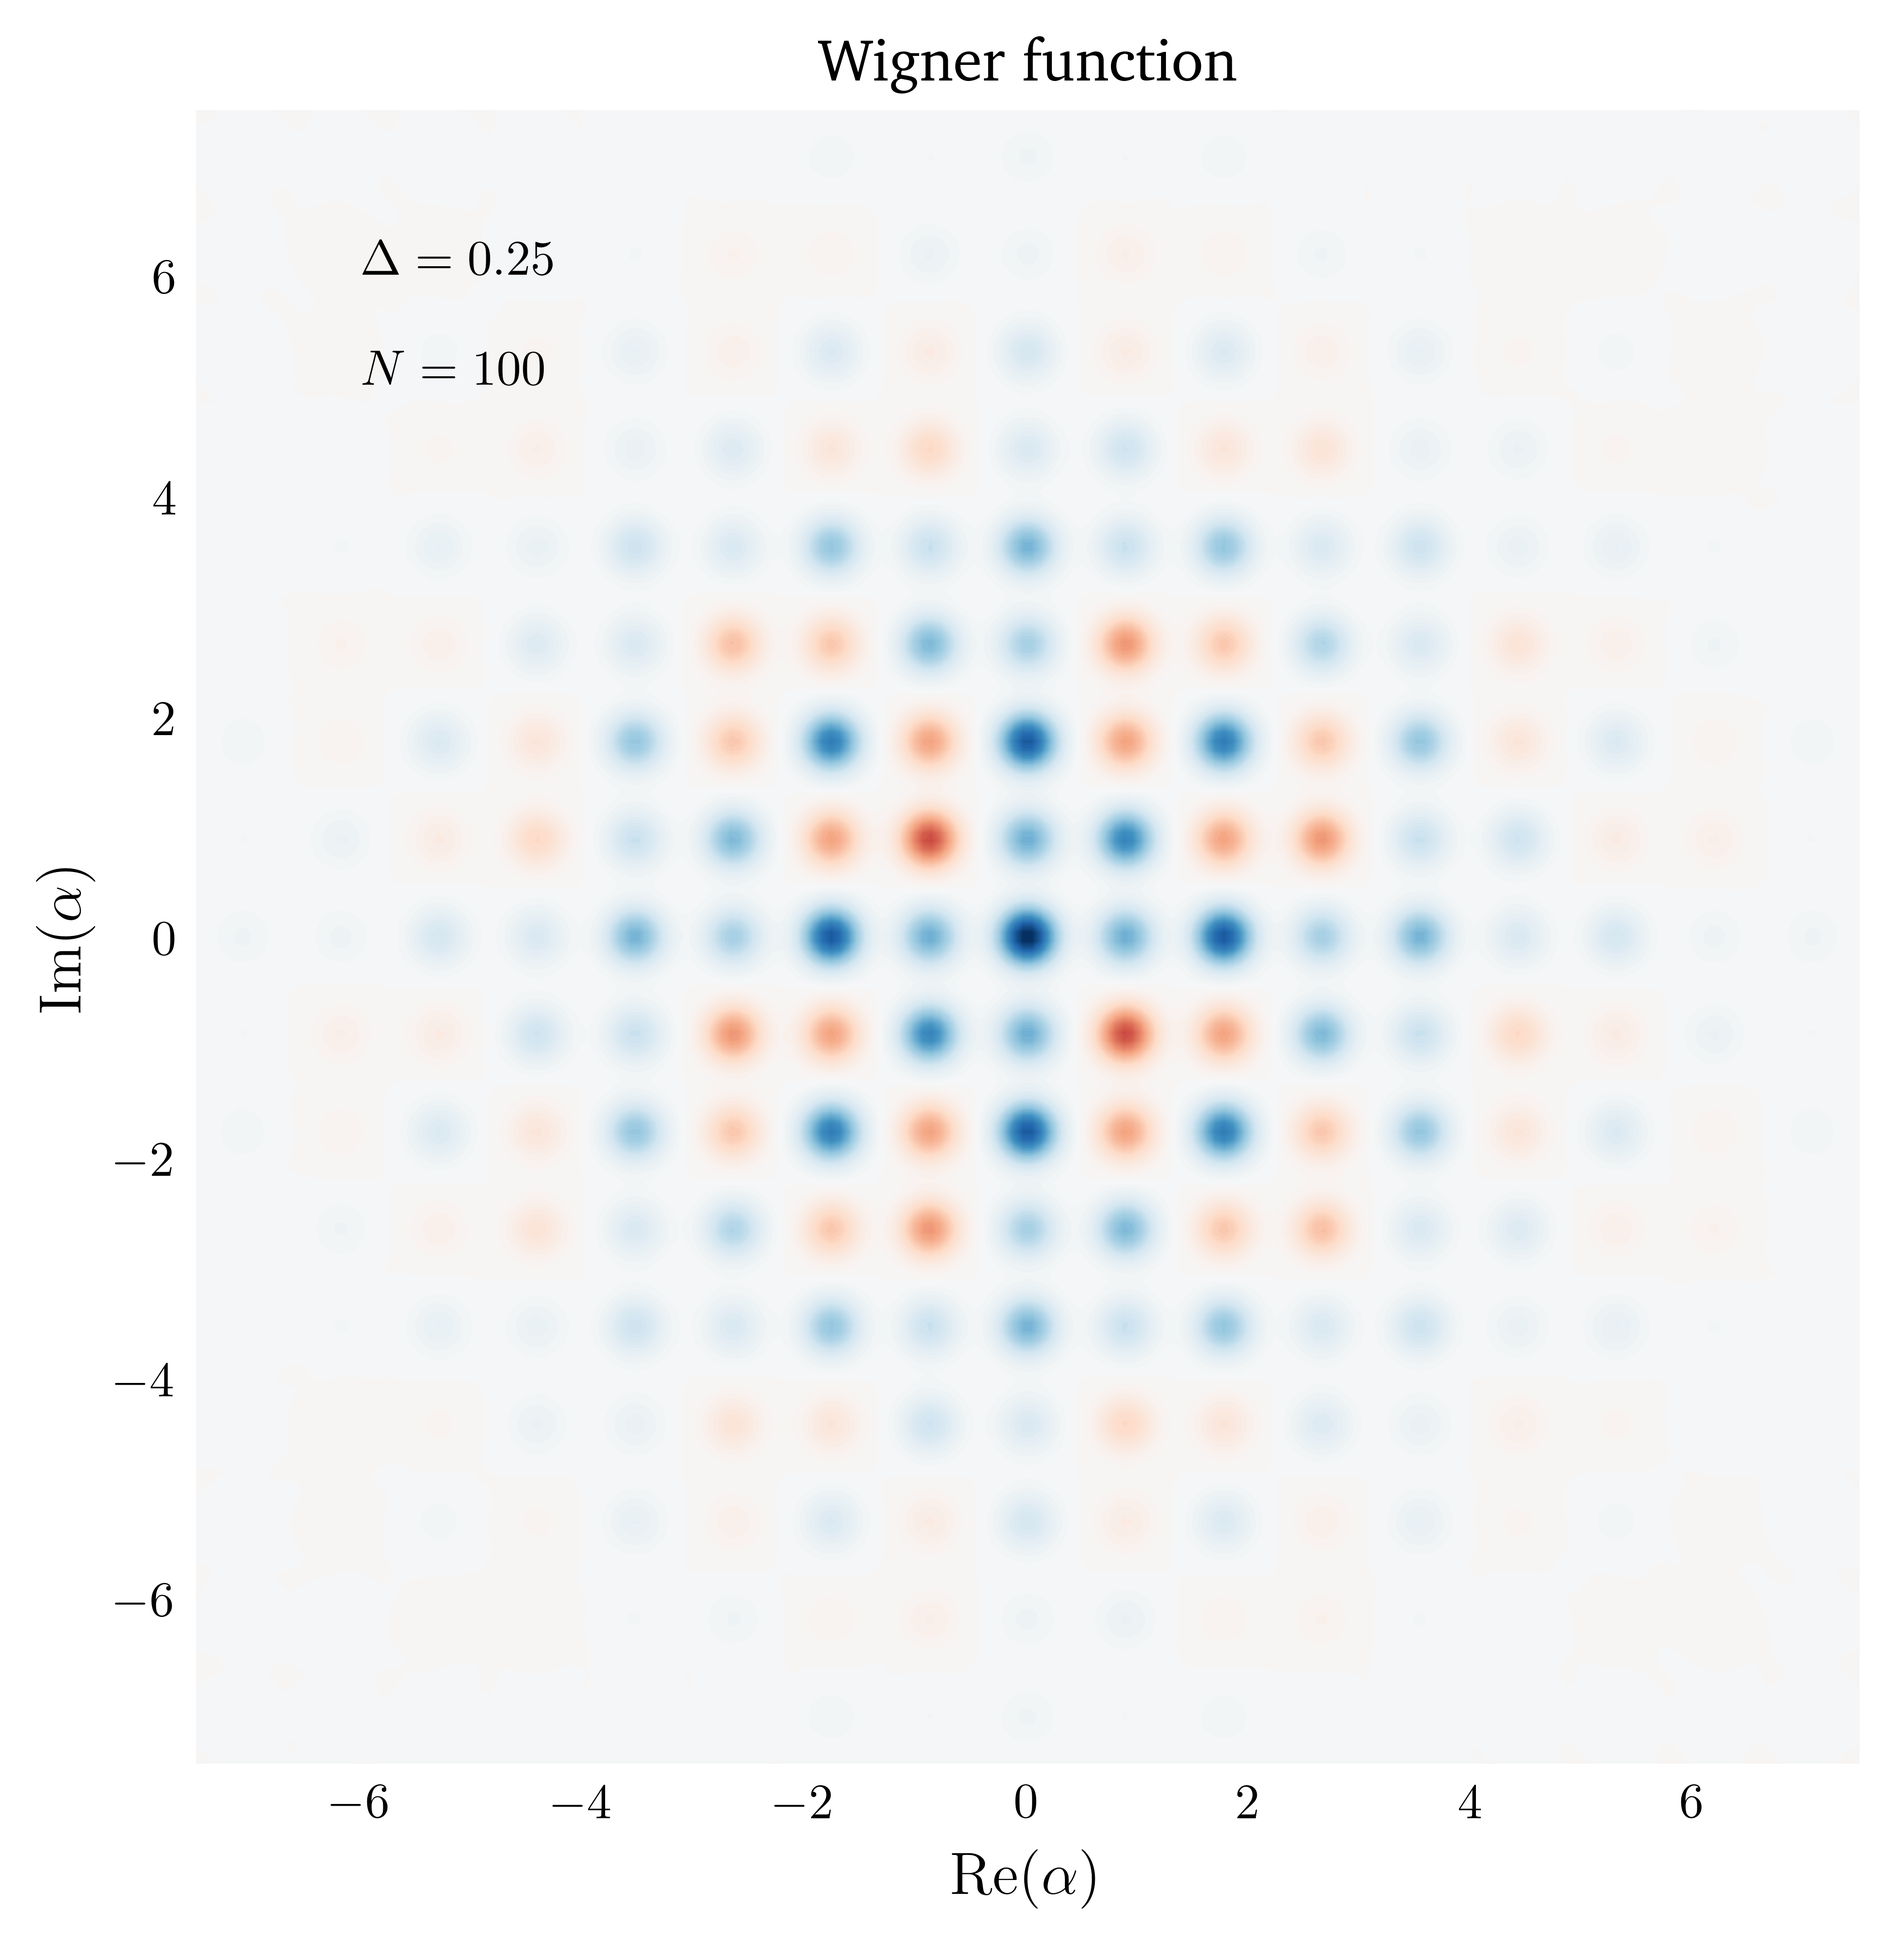
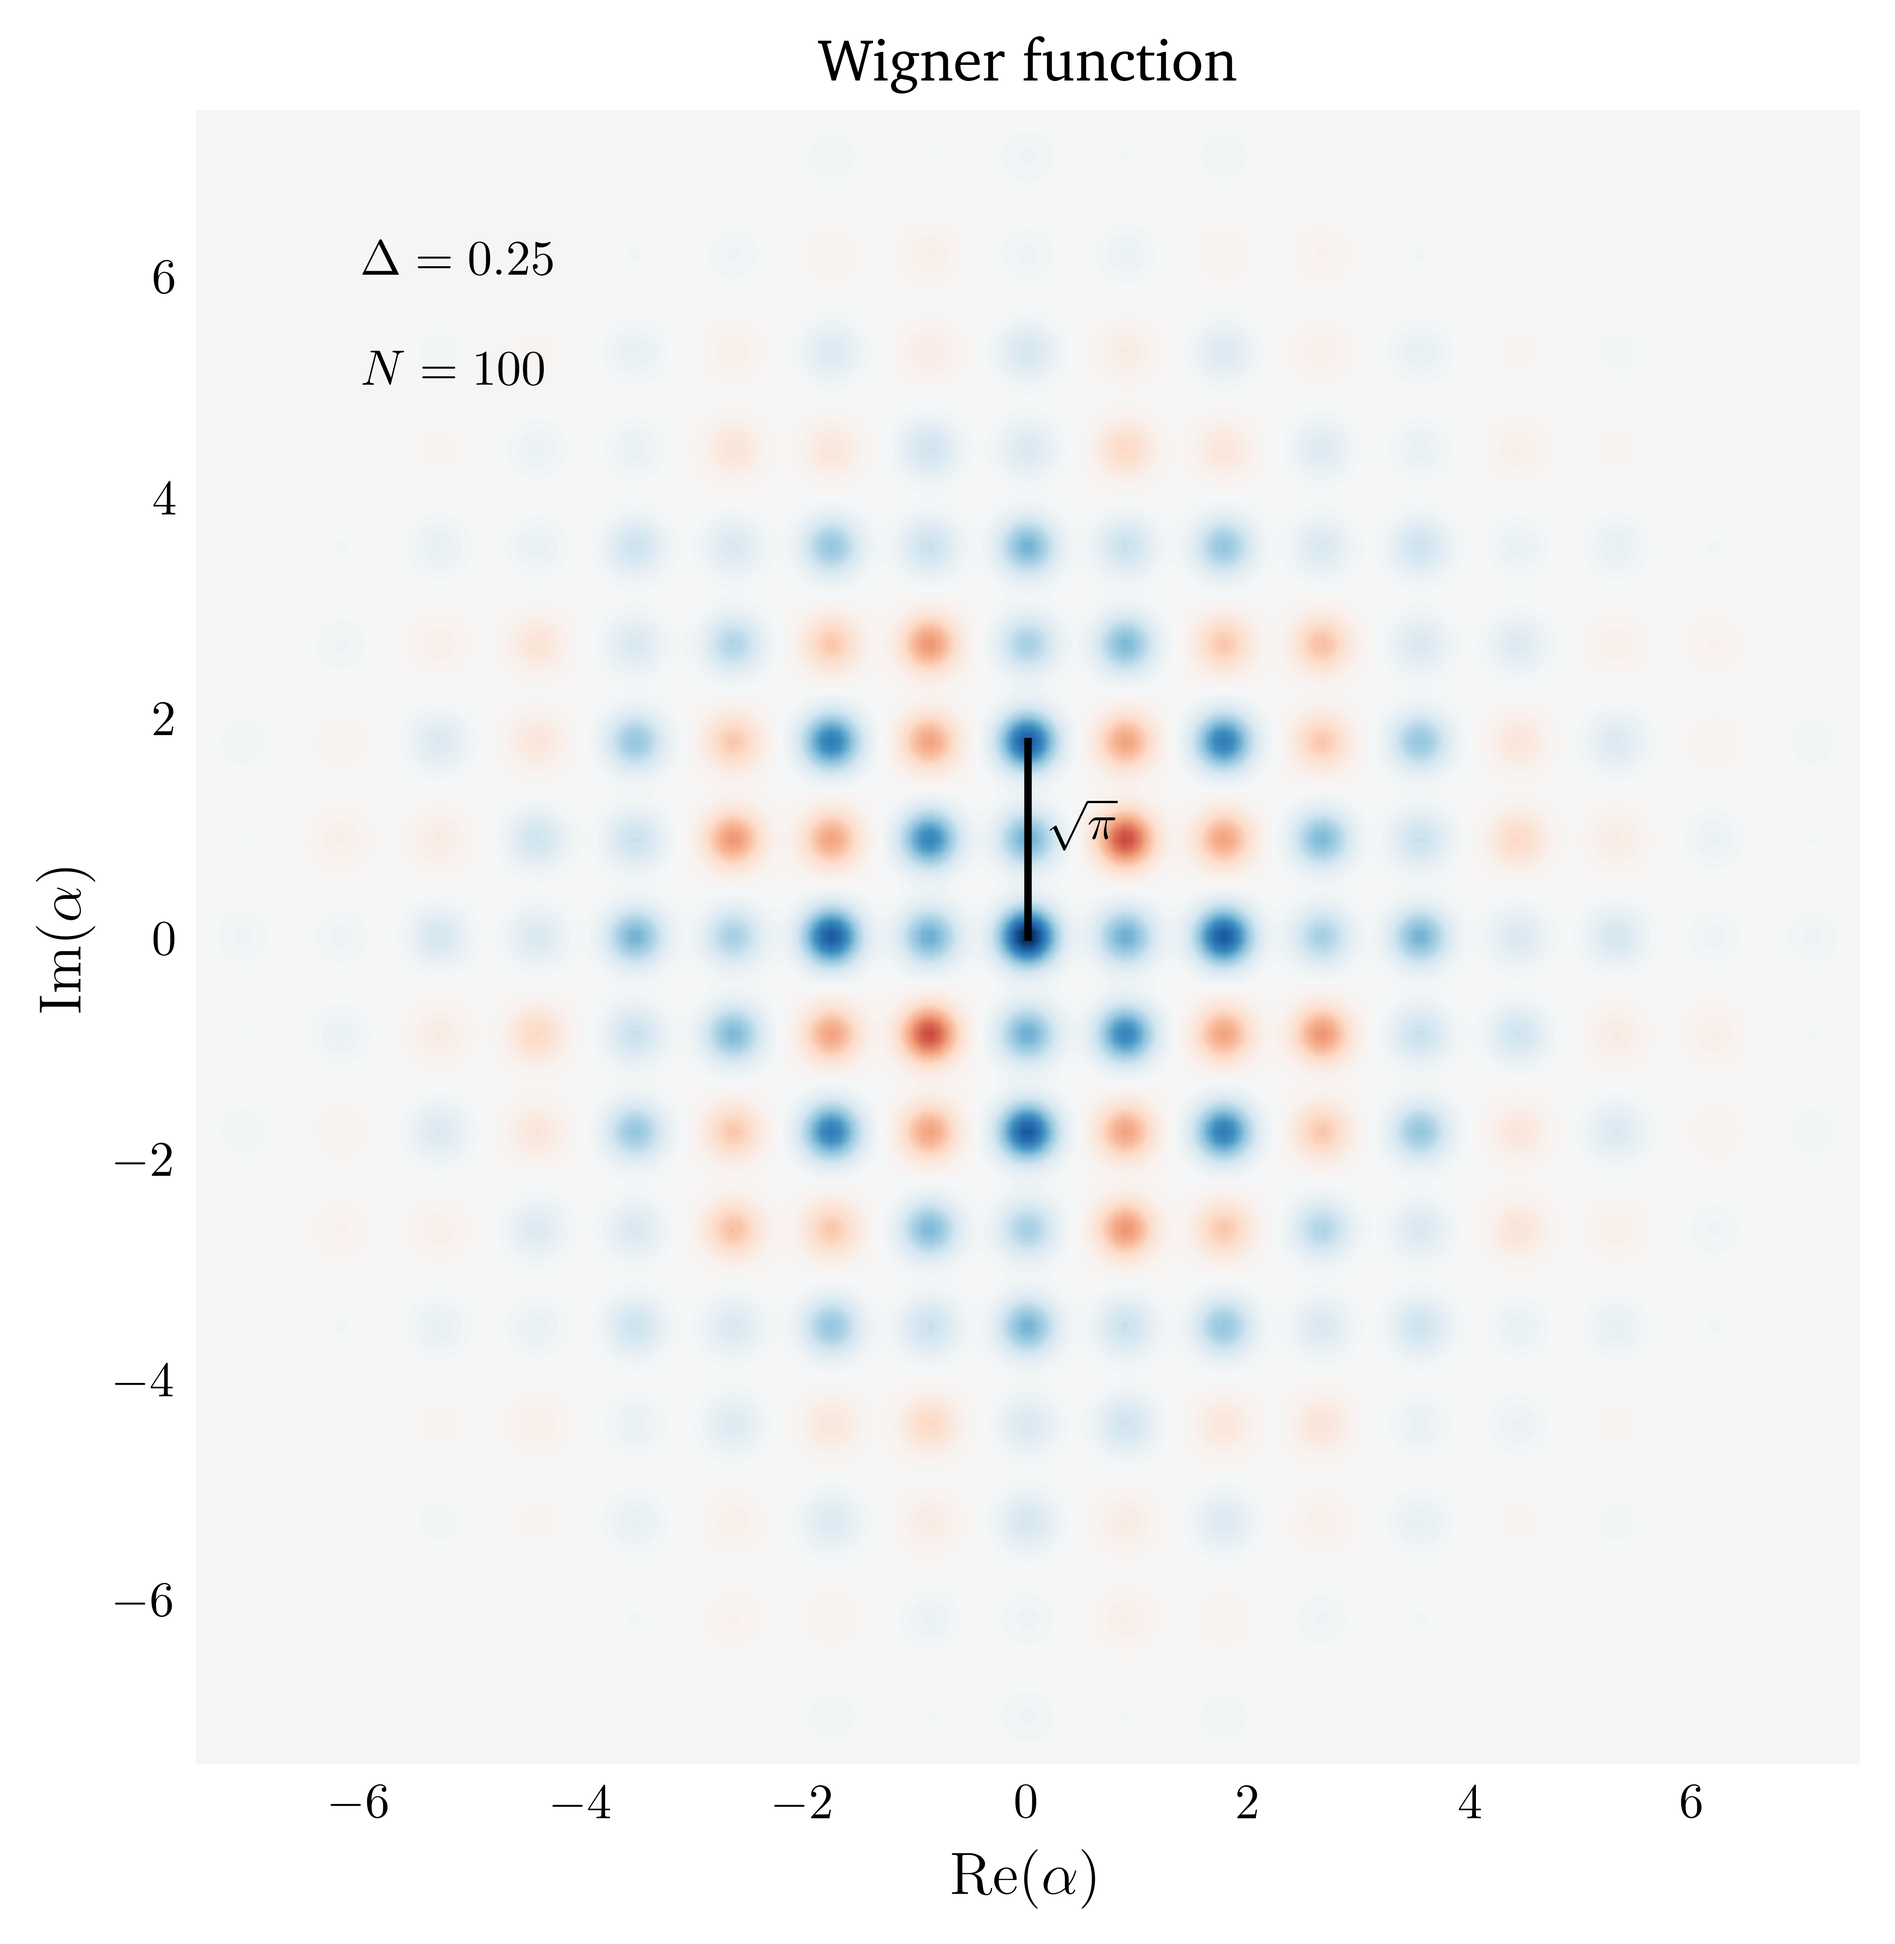
sqrth100

diff --git a/stage_baptiste/projects/Basic_GKP_operations/Basic_GKP_operations.py b/stage_baptiste/projects/Basic_GKP_operations/Basic_GKP_operations.py
@@ -94,9 +94,9 @@ H = a.dag()*a
 
 
 n = a.dag()*a
-H = n
+H = n*n
 
-tf = pi/2
+tf = pi/8
 tlist = np.linspace(0,tf,70)  # times for animation
 # tlist = np.linspace(0,tf,1200)  # times for expectation values
 options = Options(store_states=True,nsteps=2500)  # get states even if e_ops are calculated
@@ -105,12 +105,14 @@ outs = [mesolve(-H, osc, tlist, [], [D],options=options) for D in Ds]
 
 
 # sqrtH Wigner function
-#
-#
-# fig, ax = plot_wigner(outs[0].states[-1])
-# ax.text(-6,6,rf"$\Delta = {delta}$")
-# ax.text(-6,5,rf"$N = {dim}$")
-# plt.savefig(f"/Users/jeremie/Desktop/Stage_Baptiste/stage_baptiste/projects/Basic_GKP_operations/figs/sqrtHadamar_{dim}")
+
+
+fig, ax = plot_wigner(outs[0].states[-1])
+ax.text(-6,6,rf"$\Delta = {delta}$")
+ax.text(-6,5,rf"$N = {dim}$")
+ax.plot([0,0],[0,np.sqrt(pi)],'-',lw=1.5,color="black")
+ax.text(0.2,np.sqrt(pi)/2,r"$\sqrt{\pi}$",color="black",rotation=0)
+plt.savefig(f"/Users/jeremie/Desktop/Stage_Baptiste/stage_baptiste/projects/Basic_GKP_operations/figs/sqrtHadamar_{dim}")
 
 
 # sqrtH Wigner function animation
@@ -145,10 +147,10 @@ def animate(i):
     ax.text(0.02,0.9,rf"$N = {dim}$",ha='left', va='top', transform=ax.transAxes)
 
 
-anim = FuncAnimation(
-    fig, animate, interval=100, frames=frames)
-anim.save("/Users/jeremie/Desktop/Stage_Baptiste/stage_baptiste/projects/Basic_GKP_operations/figs/"
-          "Wigner_animation_H_test.gif")
+# anim = FuncAnimation(
+#     fig, animate, interval=100, frames=frames)
+# anim.save("/Users/jeremie/Desktop/Stage_Baptiste/stage_baptiste/projects/Basic_GKP_operations/figs/"
+#           "Wigner_animation_H_test.gif")
 
 
 # average of displacements for sqrtH

diff --git a/stage_baptiste/projects/Other_GKPs/GKP_4/GKP_4.py b/stage_baptiste/projects/Other_GKPs/GKP_4/GKP_4.py
@@ -30,9 +30,12 @@ orig_osc = GKP(2,0,delta,dim).state
 # **************** #
 # Special middle state at pi/16
 exp = np.exp(1j*pi/4)
-alpha_0 = sqrt(6)/2*(1 + exp)
-beta_0 = -sqrt(2)/2*(1 + exp)
-gamma_0 = (-1 + exp)*exp
+# alpha_0 = sqrt(6)/2*(1 + exp)
+# beta_0 = -sqrt(2)/2*(1 + exp)
+# gamma_0 = (-1 + exp)*exp
+alpha_0 = sqrt(6)/4*(1 + exp)
+beta_0 = -sqrt(2)/4*(1 + exp)
+gamma_0 = (-1 + exp)*exp/2  # le *exp change tout!
 c0 = 2*alpha_0/sqrt(6) + beta_0/sqrt(2) - gamma_0/2
 c1 = alpha_0/sqrt(6) + gamma_0/2
 c2 = beta_0/sqrt(2) + gamma_0/2
@@ -87,17 +90,18 @@ if wigner:
     W, yvec = W0 if isinstance(W0, tuple) else (W0, xvec)
     wlim = abs(W).max()
     fig = plt.figure(figsize=(8,8))
-    # fig.suptitle(r"$(\pi/4$ rotated) Wigner Function and its marginals")
-    fig.suptitle(r"(not rotated)Wigner Function and its marginals")
+
     gs = GridSpec(2, 2, width_ratios=[4, 1], height_ratios=[4, 1])
     ax1 = fig.add_subplot(gs[0])
     ax1.set_box_aspect(1)
     ax1.set_xticks(ticks,ticks_name)
     ax1.set_yticks(ticks,ticks_name)
     if angle:
+        fig.suptitle(r"(rotated) Wigner Function and its marginals")
         ax1.set_xlabel(r"$\hat{x}_4$",fontsize='x-large')
         ax1.set_ylabel(r"$\hat{p}_4$",fontsize='x-large', rotation=0)
     if not angle:
+        fig.suptitle(r"(not rotated)Wigner Function and its marginals")
         ax1.set_xlabel(r"$\hat{x}$",fontsize='x-large')
         ax1.set_ylabel(r"$\hat{p}$",fontsize='x-large', rotation=0)
     ax1.contourf(xvec, yvec, rotW0, 100,norm=mpl.colors.Normalize(-wlim, wlim),cmap=mpl.colormaps['RdBu'])
